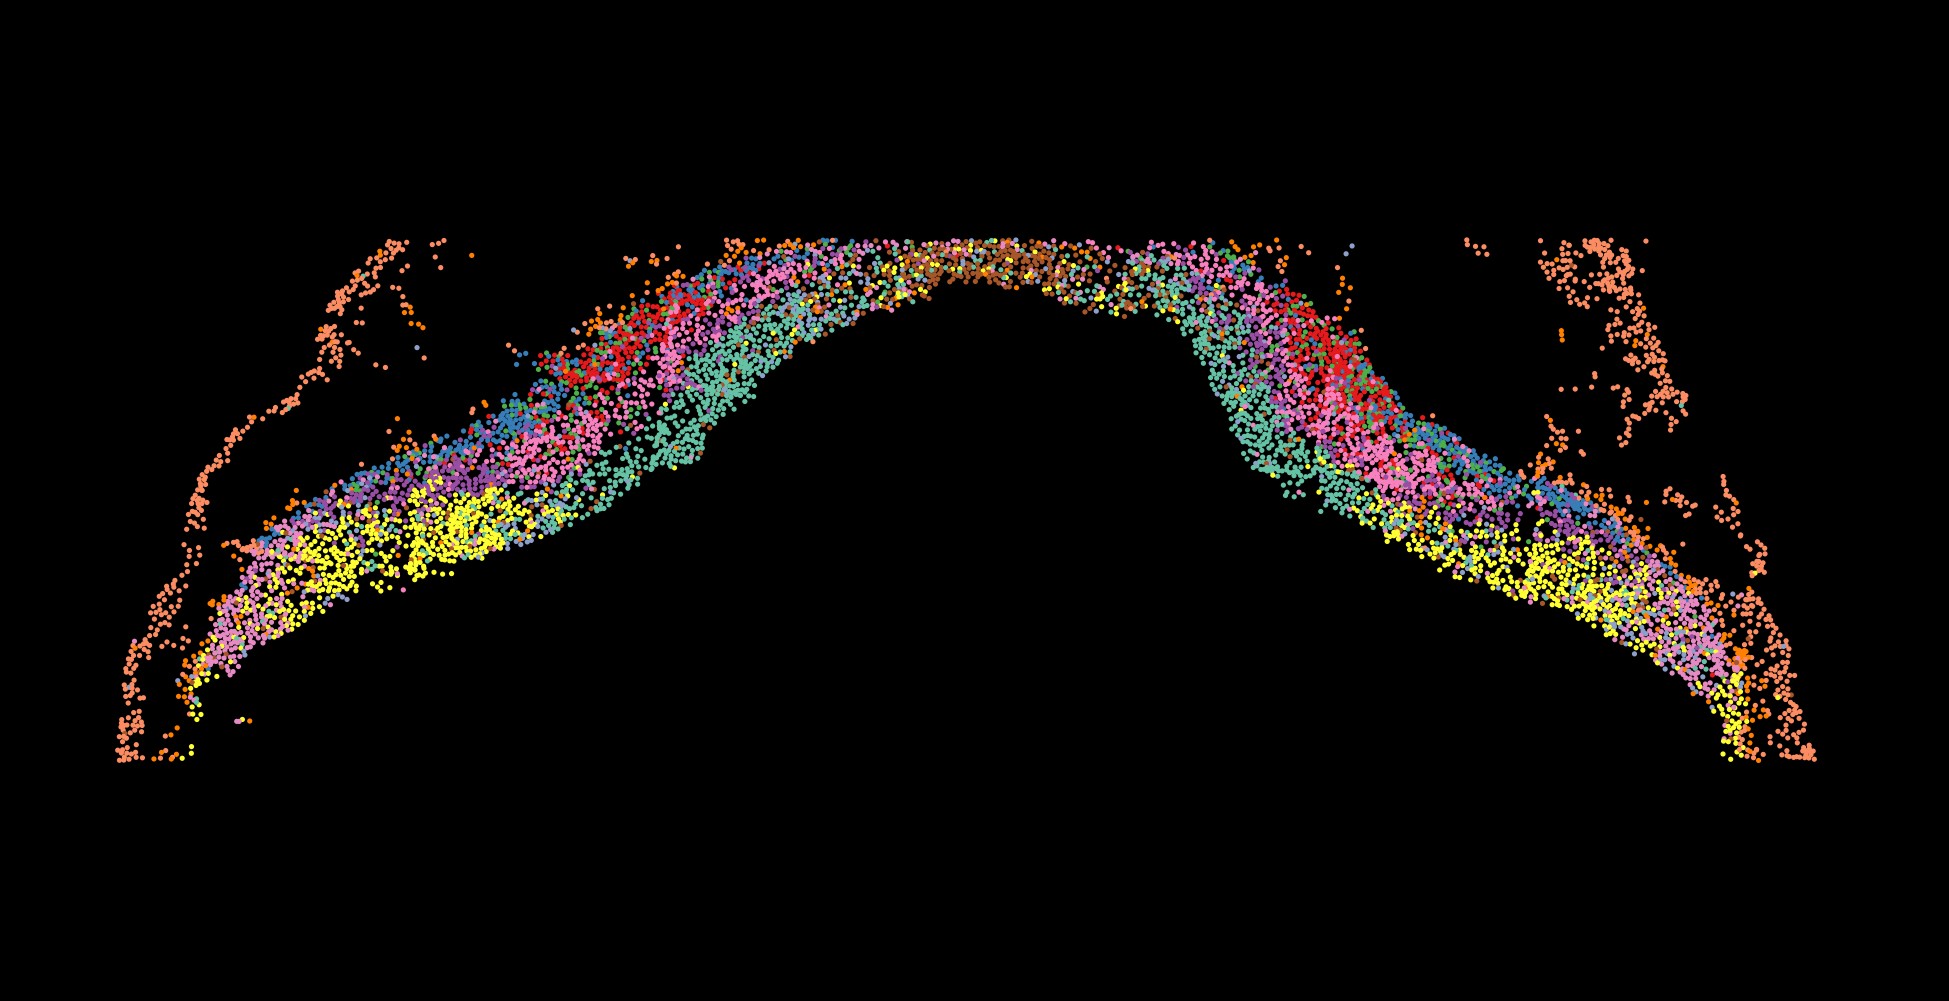
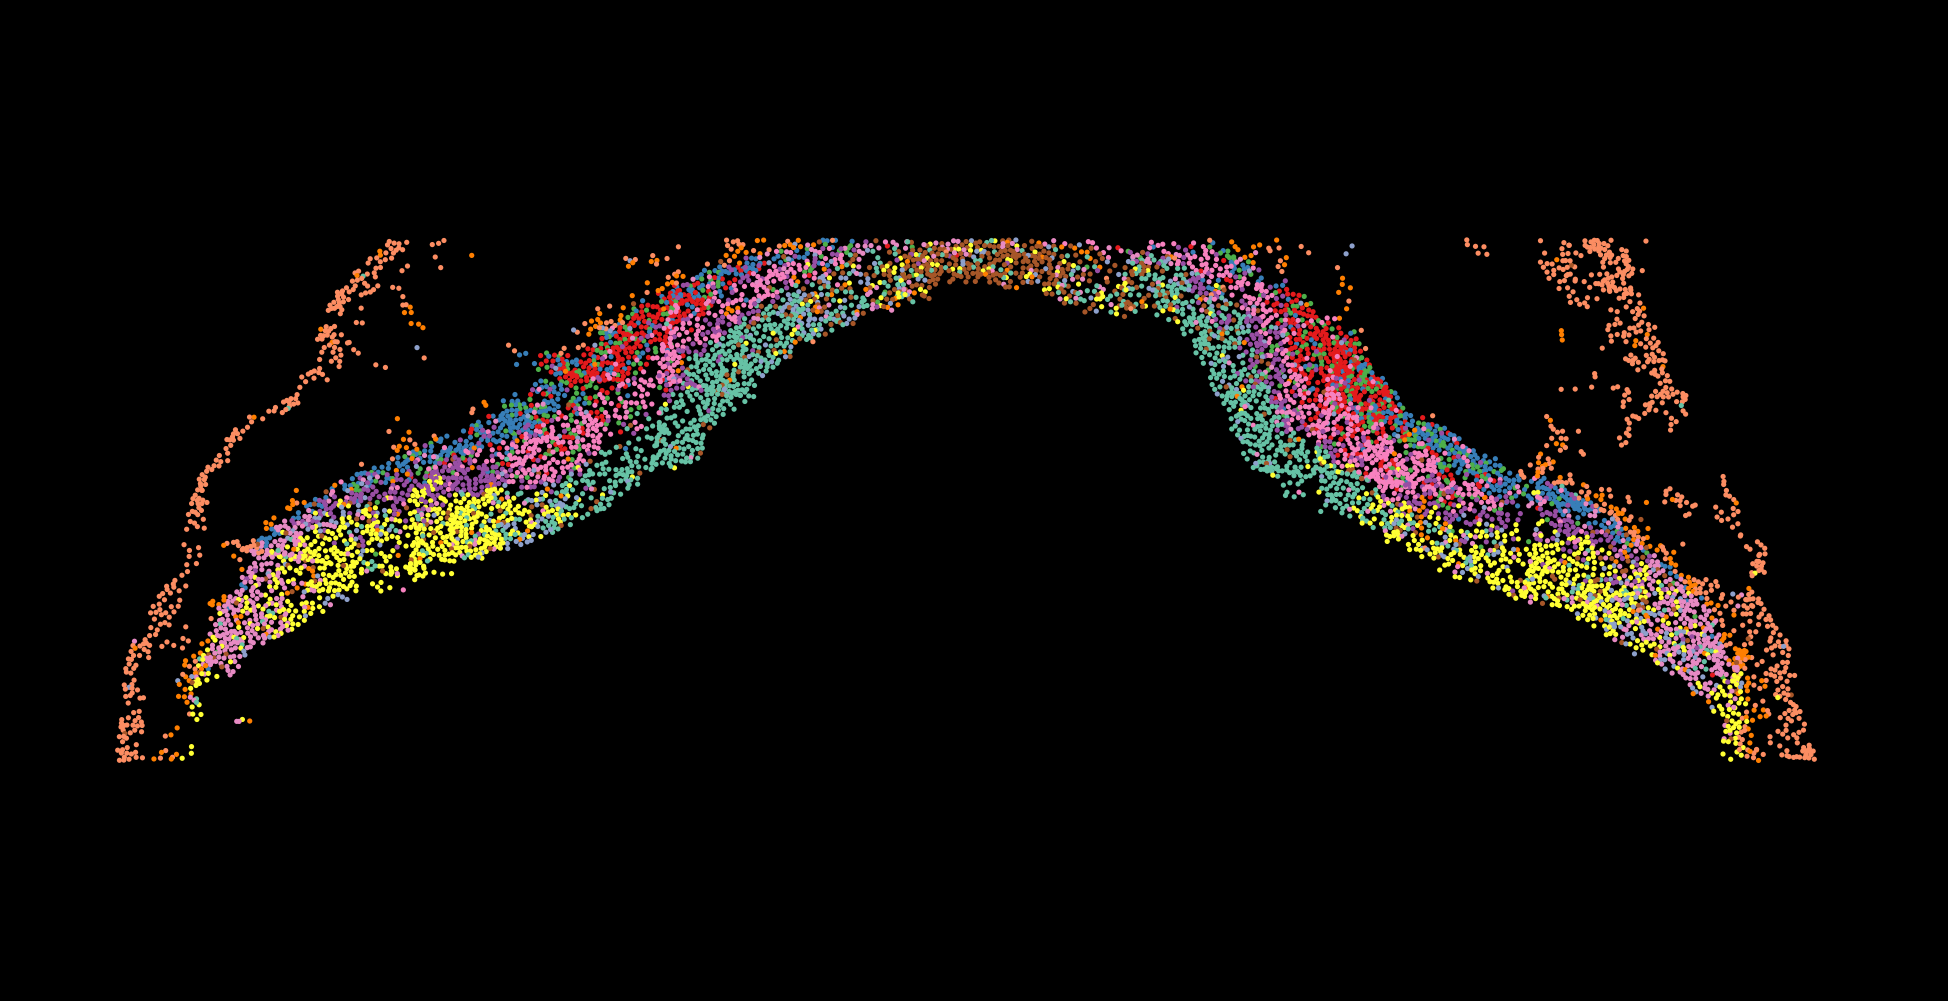
update imges

Changed region(s): [[0.154, 0.2168, 0.924, 0.7742], [0.77, 0.2478, 0.8624, 0.4336]]

diff --git a/src/LandingPage.js b/src/LandingPage.js
@@ -8,12 +8,12 @@ const datasets = [
   { name: "E11", config: "e11", thumbnail: process.env.PUBLIC_URL + "/thumbnail/e11_finer_cell_types.png" },
   { name: "E12", config: "e12", thumbnail: process.env.PUBLIC_URL + "/thumbnail/e12_finer_cell_types.png" },
   { name: "E13", config: "e13", thumbnail: process.env.PUBLIC_URL + "/thumbnail/e13_finer_cell_types.png" },
-  { name: "E14", config: "e14", thumbnail: process.env.PUBLIC_URL + "/thumbnail/e14_cell_types.png" },
-  { name: "E15", config: "e15", thumbnail: process.env.PUBLIC_URL + "/thumbnail/e15.png" },
-  { name: "E17", config: "e17", thumbnail: process.env.PUBLIC_URL + "/thumbnail/e17.png" },
-  { name: "P0",  config: "p0",  thumbnail: process.env.PUBLIC_URL + "/thumbnail/p0.png" },
-  { name: "P4",  config: "p4",  thumbnail: process.env.PUBLIC_URL + "/thumbnail/p4.png" },
-  { name: "P56", config: "p56", thumbnail: process.env.PUBLIC_URL + "/thumbnail/p56.png" },
+  { name: "E14", config: "e14", thumbnail: process.env.PUBLIC_URL + "/thumbnail/e14_cell_types.png" }, // to do 
+  { name: "E15", config: "e15", thumbnail: process.env.PUBLIC_URL + "/thumbnail/e15.png" }, // to do 
+  { name: "E17", config: "e17", thumbnail: process.env.PUBLIC_URL + "/thumbnail/e17.png" }, // to do 
+  { name: "P0",  config: "p0",  thumbnail: process.env.PUBLIC_URL + "/thumbnail/p0_finer_cell_types.png" },
+  { name: "P4",  config: "p4",  thumbnail: process.env.PUBLIC_URL + "/thumbnail/p4_finer_cell_types.png" },
+  { name: "P56", config: "p56", thumbnail: process.env.PUBLIC_URL + "/thumbnail/p56.png" }, // to do 
 ];
 
 export default function LandingPage() {
@@ -28,7 +28,7 @@ export default function LandingPage() {
           <img src={brainLogo} alt="Brain Logo" className="navbar-logo" />
 
           <a href="#abstract">Abstract</a>
-          <a href="#spatial">Spatial</a> {/* spatial visualizations with Vitessce */}
+          <a href="#spatial">SPARTseq</a> {/* spatial visualizations with Vitessce */}
           <a href="#singlecell">scRNAseq</a> {/* scRNAseq embeddings */}
           <a
             href="https://www.kebschull-lab.org/"
@@ -75,7 +75,7 @@ export default function LandingPage() {
 
         {/* Spatial Views Section */}
         <section id="spatial" className="spatial">
-          <h2>Spatial Views</h2>
+          <h2>SPARTseq Embeddings</h2>
           <div className="grid">
             {datasets.map((ds) => (
               <a

diff --git a/src/LandingPage.css b/src/LandingPage.css
@@ -226,7 +226,7 @@ section {
   width: 100%;
   height: 180px;
   object-fit: cover;
-  border-bottom: 2px solid #ddd;
+  border-bottom: 1px solid #ddd;
   transition: transform 0.3s ease;
 }
 
